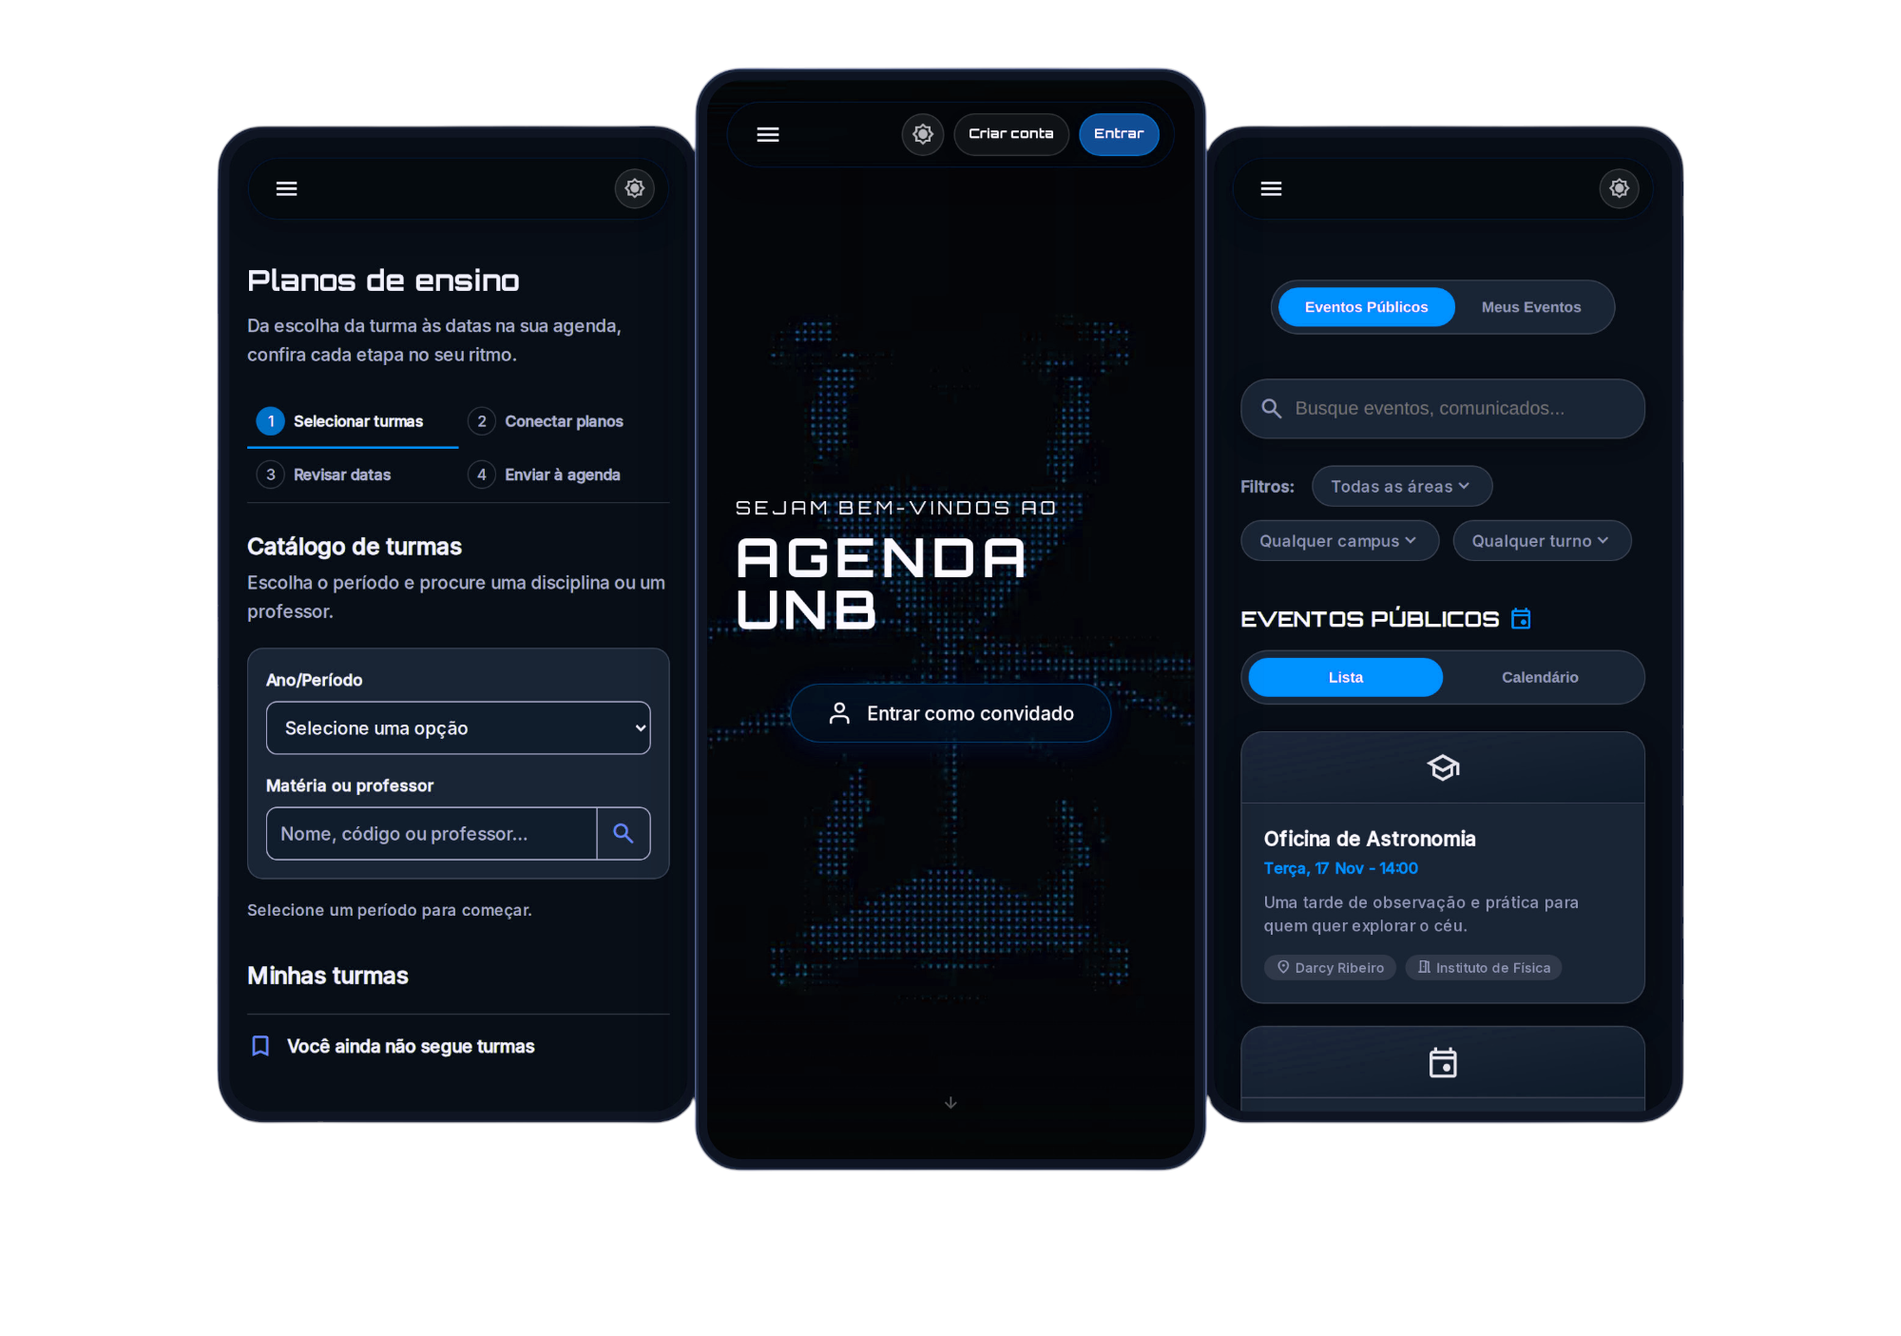
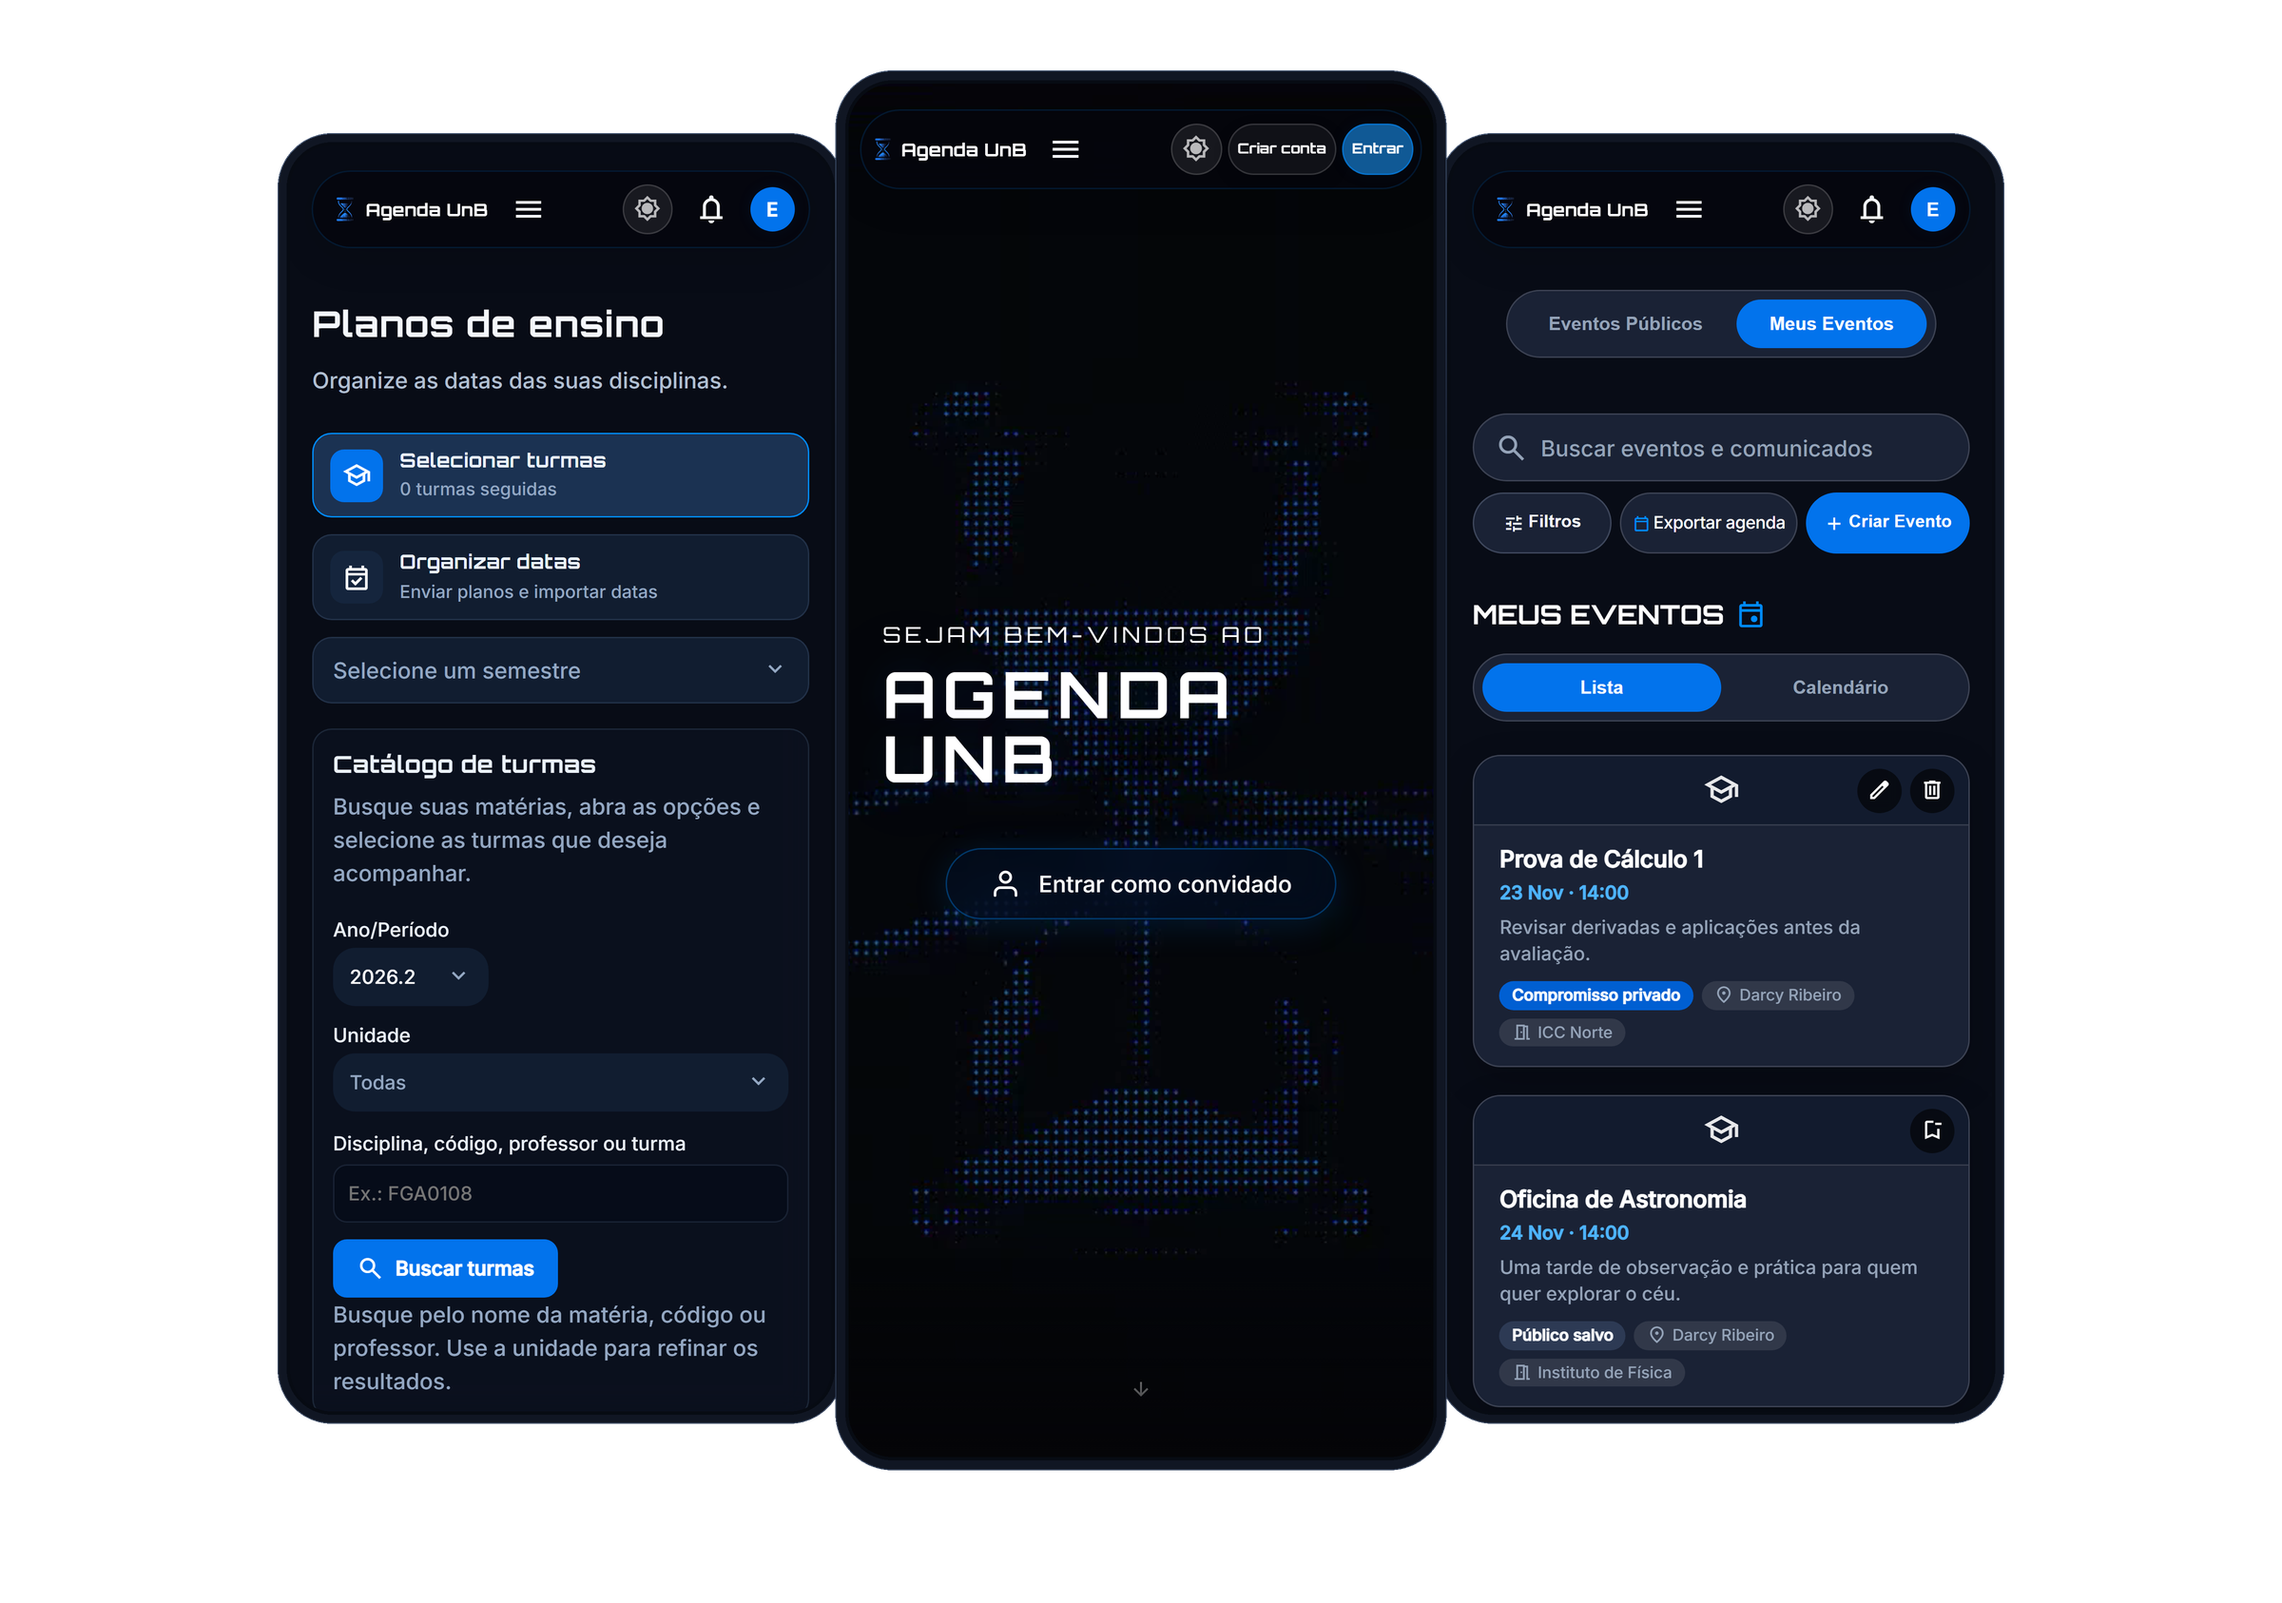
docs: atualiza README

diff --git a/README.md b/README.md
@@ -1,8 +1,8 @@
 <p align="center">
-  <img src="frontend/public/banner.png" alt="Banner AgendaUnb" width="760">
+  <img src="frontend/public/banner.png" alt="Banner Agenda UnB" width="760">
 </p>
 
-# **AGENDA UNB**
+# Agenda UnB
 
 **Plataforma centralizada de eventos e organização acadêmica da Universidade de Brasília**
 
@@ -24,7 +24,7 @@
   </a>
 </p>
 
-O **AgendaUnb** é uma plataforma web colaborativa de eventos e organização acadêmica desenvolvida para os estudantes e docentes da **Universidade de Brasília (UnB)** centralizarem sua rotina em um único lugar. O sistema integra um catálogo público de eventos dos campi a um organizador acadêmico inteligente com extração automatizada de datas de planos de ensino, e é totalmente gratuito e de código aberto.
+O **Agenda UnB** é uma plataforma web colaborativa de eventos e organização acadêmica desenvolvida para os estudantes e docentes da **Universidade de Brasília (UnB)** centralizarem sua rotina em um único lugar. O sistema integra um catálogo público de eventos dos campi a um organizador acadêmico inteligente com extração automatizada de datas de planos de ensino, e é totalmente gratuito e de código aberto.
 
 ## Documentação
 
@@ -32,6 +32,8 @@ O **AgendaUnb** é uma plataforma web colaborativa de eventos e organização ac
 - [Documentação oficial](https://agendaunb.com.br/docs)
 - [Arquitetura e modelo de dados](docs/arquitetura/visao-geral.md)
 - [Requisitos do sistema](docs/produto/requisitos.md)
+- [Diretrizes de acessibilidade](ACCESSIBILITY.md)
+- [Política de segurança](SECURITY.md)
 - [Contribuindo com o Agenda UnB](docs/processo/contribuindo.md)
 
 Acesse a aplicação em funcionamento em **[agendaunb.com.br](https://agendaunb.com.br)**, ou explore nossos protótipos e quadros de planejamento no **[Figma](https://www.figma.com/board/RlZe9FgO3Bz3gPkxevs8UJ/AGENDA-UNB?node-id=1-217)** e no **[Miro](https://miro.com/app/board/uXjVHtiWi4U=/)**. Consulte também os [arquivos de documentação no repositório](docs/).
@@ -40,24 +42,24 @@ Acesse a aplicação em funcionamento em **[agendaunb.com.br](https://agendaunb.
 
 Estudantes podem usar e-mail e senha ou entrar com o Google. O perfil docente exige e-mail institucional `@unb.br` confirmado. A agenda pessoal e o texto preparado ficam restritos à conta. O PDF é descartado após a leitura e a primeira versão elegível de avaliações pode ficar disponível a quem segue a turma. [Política de Privacidade](docs/produto/politica-de-privacidade.md) · [Termos de Uso](docs/produto/termos-de-uso.md).
 
-## Sobre o AgendaUnb
+## Sobre o Agenda UnB
 
-A rotina de um estudante da UnB costuma estar fragmentada: a grade fica no SIGAA, as datas de provas estão espalhadas em PDFs de planos de ensino e os eventos acadêmicos e culturais circulam por redes sociais, cartazes e grupos de WhatsApp. O AgendaUnb foi criado para reunir essas informações em uma única aplicação web produtiva, aberta e extensível.
+A rotina de um estudante da UnB costuma estar fragmentada: a grade fica no SIGAA, as datas de provas estão espalhadas em PDFs de planos de ensino e os eventos acadêmicos e culturais circulam por redes sociais, cartazes e grupos de WhatsApp. O Agenda UnB foi criado para reunir essas informações em uma única aplicação web produtiva, aberta e extensível.
 
 ### Experiências acadêmicas unificadas
 
-Queremos permitir que cada estudante acompanhe a vida universitária e seus compromissos de estudo sem precisar alternar entre dezenas de portais. O AgendaUnb reúne dois eixos principais em uma interface responsiva (com temas claro e escuro):
+Queremos permitir que cada estudante acompanhe a vida universitária e seus compromissos de estudo sem precisar alternar entre dezenas de portais. O Agenda UnB reúne dois eixos principais em uma interface responsiva (com temas claro e escuro):
 
 - **Agenda do Campus:** Catálogo público de eventos acadêmicos, culturais e esportivos de todos os campi da UnB (**Darcy Ribeiro (Plano Piloto), FCTE (Gama), FCTS (Ceilândia), FUP (Planaltina) e FAL**), com visualização em lista ou calendário (mensal e semanal), filtros por área, campus e turno, além de salvamento na agenda pessoal e envio de sugestões com moderação.
 - **Organizador Acadêmico.** Agenda pessoal com compromissos privados, eventos públicos salvos, lembretes e exportação para Google Agenda ou ICS. O envio de PDF ou texto autoriza a extração de candidatos a provas e trabalhos após sanitização automática. Cada pessoa revisa e confirma as datas que importa.
 
 <p align="center">
-  <img src="frontend/public/agendaunb-mobile.png" alt="Telas do AgendaUnb - Planos de Ensino, Boas-vindas e Eventos Públicos" width="720">
+  <img src="frontend/public/agendaunb-mobile.png" alt="Telas de Planos de ensino, página inicial e Meus Eventos do Agenda UnB, com botões para exportar a agenda e criar eventos" width="720">
 </p>
 
 ### Arquitetura moderna e resultados rápidos
 
-O AgendaUnb foi estruturado com tecnologias modernas e gratuitas para garantir carregamento rápido, segurança de dados e facilidade de manutenção pela equipe:
+O Agenda UnB foi estruturado com tecnologias modernas e gratuitas para garantir carregamento rápido, segurança de dados e facilidade de manutenção pela equipe:
 
 | Camada | Tecnologia | Finalidade |
 | :--- | :--- | :--- |
@@ -69,7 +71,7 @@ O AgendaUnb foi estruturado com tecnologias modernas e gratuitas para garantir c
 
 ### Desenvolvimento produtivo e execução simplificada
 
-O ambiente local do AgendaUnb utiliza **GNU Make**, **Supabase CLI** e **Docker**, permitindo que qualquer pessoa contribuidora suba o banco de dados, o backend e o frontend com poucos comandos e veja suas alterações em tempo real:
+O ambiente local do Agenda UnB utiliza **GNU Make**, **Supabase CLI** e **Docker**, permitindo que qualquer pessoa contribuidora suba o banco de dados, o backend e o frontend com poucos comandos e veja suas alterações em tempo real:
 
 ```bash
 make setup
@@ -80,7 +82,7 @@ Para encerrar os serviços e parar os containers locais do Supabase, pressione `
 
 ### Modelo aberto, seguro e extensível
 
-O AgendaUnb funciona em qualquer ambiente de desenvolvimento (com suporte nativo a VS Code, Docker e Supabase CLI) e segue padrões rigorosos de segurança e qualidade: perfis criados automaticamente via *triggers*, moderação atômica de sugestões estudantis, isolamento de dados privados por usuário e integração contínua automatizada.
+O Agenda UnB funciona em qualquer ambiente de desenvolvimento (com suporte nativo a VS Code, Docker e Supabase CLI) e segue padrões rigorosos de segurança e qualidade: perfis criados automaticamente via *triggers*, moderação atômica de sugestões estudantis, isolamento de dados privados por usuário e integração contínua automatizada.
 
 O Agenda UnB é um projeto de código aberto da disciplina de **Métodos de Desenvolvimento de Software (MDS)** da UnB. Consulte o [guia de contribuição](docs/processo/contribuindo.md) ou abra uma [issue no GitHub](https://github.com/unb-mds/2026-2-AgendaUnB/issues).
 
